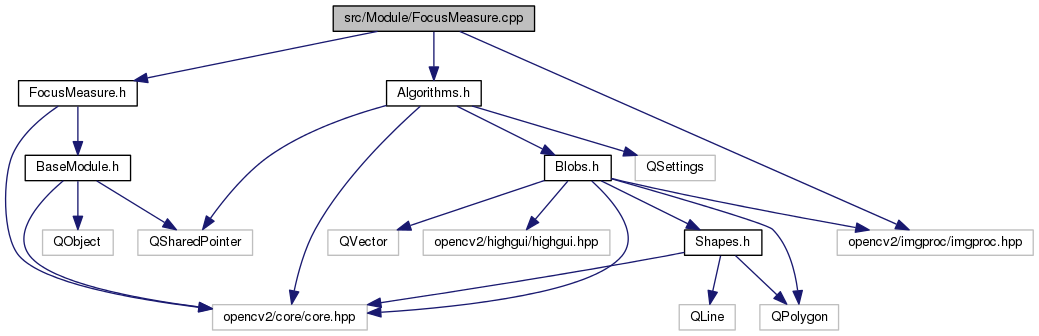
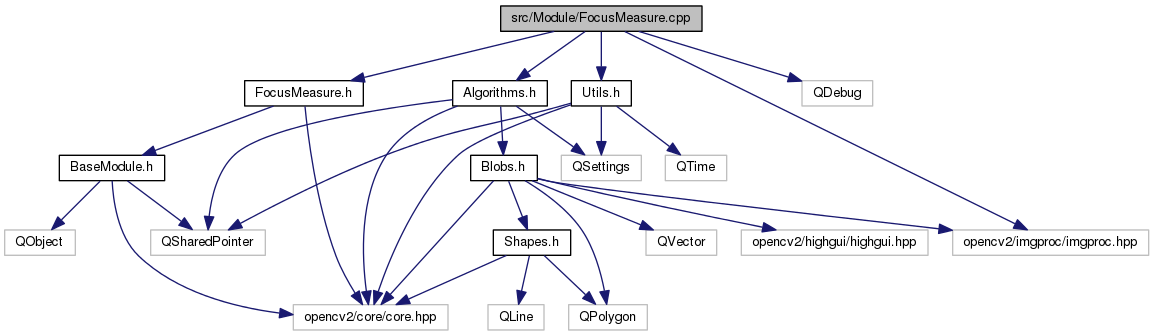
Automated documentation build for changeset 41c8662044bf3e36319ce26da71548b5b3ac6066.

diff --git a/html/dir_000005_000003.html b/html/dir_000005_000003.html
@@ -96,7 +96,7 @@ $(document).ready(function(){initNavTree('dir_7a678c4f5ebb49c12cb98071857a26cf.h
 </div>
 
 <div class="contents">
-<h3>Module &rarr; Core Relation</h3><table class="dirtab"><tr class="dirtab"><th class="dirtab">File in src/Module</th><th class="dirtab">Includes file in src/Core</th></tr><tr class="dirtab"><td class="dirtab"><a class="el" href="_base_module_8cpp.html">BaseModule.cpp</a></td><td class="dirtab"><a class="el" href="_settings_8h.html">Settings.h</a></td></tr><tr class="dirtab"><td class="dirtab"><a class="el" href="_binarization_8cpp.html">Binarization.cpp</a></td><td class="dirtab"><a class="el" href="_algorithms_8h.html">Algorithms.h</a></td></tr><tr class="dirtab"><td class="dirtab"><a class="el" href="_binarization_8cpp.html">Binarization.cpp</a></td><td class="dirtab"><a class="el" href="_image_8h.html">Image.h</a></td></tr><tr class="dirtab"><td class="dirtab"><a class="el" href="_focus_measure_8cpp.html">FocusMeasure.cpp</a></td><td class="dirtab"><a class="el" href="_algorithms_8h.html">Algorithms.h</a></td></tr><tr class="dirtab"><td class="dirtab"><a class="el" href="_form_analysis_8cpp.html">FormAnalysis.cpp</a></td><td class="dirtab"><a class="el" href="_algorithms_8h.html">Algorithms.h</a></td></tr><tr class="dirtab"><td class="dirtab"><a class="el" href="_form_analysis_8cpp.html">FormAnalysis.cpp</a></td><td class="dirtab"><a class="el" href="_elements_8h.html">Elements.h</a></td></tr><tr class="dirtab"><td class="dirtab"><a class="el" href="_form_analysis_8cpp.html">FormAnalysis.cpp</a></td><td class="dirtab"><a class="el" href="_image_8h.html">Image.h</a></td></tr><tr class="dirtab"><td class="dirtab"><a class="el" href="_form_analysis_8cpp.html">FormAnalysis.cpp</a></td><td class="dirtab"><a class="el" href="_page_parser_8h.html">PageParser.h</a></td></tr><tr class="dirtab"><td class="dirtab"><a class="el" href="_line_trace_8cpp.html">LineTrace.cpp</a></td><td class="dirtab"><a class="el" href="_algorithms_8h.html">Algorithms.h</a></td></tr><tr class="dirtab"><td class="dirtab"><a class="el" href="_line_trace_8cpp.html">LineTrace.cpp</a></td><td class="dirtab"><a class="el" href="_blobs_8h.html">Blobs.h</a></td></tr><tr class="dirtab"><td class="dirtab"><a class="el" href="_line_trace_8cpp.html">LineTrace.cpp</a></td><td class="dirtab"><a class="el" href="_image_8h.html">Image.h</a></td></tr><tr class="dirtab"><td class="dirtab"><a class="el" href="_line_trace_8h.html">LineTrace.h</a></td><td class="dirtab"><a class="el" href="_shapes_8h.html">Shapes.h</a></td></tr><tr class="dirtab"><td class="dirtab"><a class="el" href="_skew_estimation_8cpp.html">SkewEstimation.cpp</a></td><td class="dirtab"><a class="el" href="_algorithms_8h.html">Algorithms.h</a></td></tr><tr class="dirtab"><td class="dirtab"><a class="el" href="_skew_estimation_8cpp.html">SkewEstimation.cpp</a></td><td class="dirtab"><a class="el" href="_image_8h.html">Image.h</a></td></tr><tr class="dirtab"><td class="dirtab"><a class="el" href="_super_pixel_8cpp.html">SuperPixel.cpp</a></td><td class="dirtab"><a class="el" href="_drawer_8h.html">Drawer.h</a></td></tr><tr class="dirtab"><td class="dirtab"><a class="el" href="_super_pixel_8cpp.html">SuperPixel.cpp</a></td><td class="dirtab"><a class="el" href="_image_8h.html">Image.h</a></td></tr><tr class="dirtab"><td class="dirtab"><a class="el" href="_super_pixel_8cpp.html">SuperPixel.cpp</a></td><td class="dirtab"><a class="el" href="_image_processor_8h.html">ImageProcessor.h</a></td></tr><tr class="dirtab"><td class="dirtab"><a class="el" href="_super_pixel_8cpp.html">SuperPixel.cpp</a></td><td class="dirtab"><a class="el" href="_utils_8h.html">Utils.h</a></td></tr><tr class="dirtab"><td class="dirtab"><a class="el" href="_super_pixel_8h.html">SuperPixel.h</a></td><td class="dirtab"><a class="el" href="_pixel_8h.html">Pixel.h</a></td></tr><tr class="dirtab"><td class="dirtab"><a class="el" href="_super_pixel_8h.html">SuperPixel.h</a></td><td class="dirtab"><a class="el" href="_shapes_8h.html">Shapes.h</a></td></tr><tr class="dirtab"><td class="dirtab"><a class="el" href="_text_block_segmentation_8cpp.html">TextBlockSegmentation.cpp</a></td><td class="dirtab"><a class="el" href="_drawer_8h.html">Drawer.h</a></td></tr><tr class="dirtab"><td class="dirtab"><a class="el" href="_text_block_segmentation_8cpp.html">TextBlockSegmentation.cpp</a></td><td class="dirtab"><a class="el" href="_image_8h.html">Image.h</a></td></tr><tr class="dirtab"><td class="dirtab"><a class="el" href="_text_block_segmentation_8cpp.html">TextBlockSegmentation.cpp</a></td><td class="dirtab"><a class="el" href="_utils_8h.html">Utils.h</a></td></tr><tr class="dirtab"><td class="dirtab"><a class="el" href="_text_block_segmentation_8h.html">TextBlockSegmentation.h</a></td><td class="dirtab"><a class="el" href="_pixel_8h.html">Pixel.h</a></td></tr><tr class="dirtab"><td class="dirtab"><a class="el" href="_text_line_segmentation_8cpp.html">TextLineSegmentation.cpp</a></td><td class="dirtab"><a class="el" href="_drawer_8h.html">Drawer.h</a></td></tr><tr class="dirtab"><td class="dirtab"><a class="el" href="_text_line_segmentation_8cpp.html">TextLineSegmentation.cpp</a></td><td class="dirtab"><a class="el" href="_image_8h.html">Image.h</a></td></tr><tr class="dirtab"><td class="dirtab"><a class="el" href="_text_line_segmentation_8cpp.html">TextLineSegmentation.cpp</a></td><td class="dirtab"><a class="el" href="_utils_8h.html">Utils.h</a></td></tr><tr class="dirtab"><td class="dirtab"><a class="el" href="_text_line_segmentation_8h.html">TextLineSegmentation.h</a></td><td class="dirtab"><a class="el" href="_pixel_8h.html">Pixel.h</a></td></tr></table></div><!-- contents -->
+<h3>Module &rarr; Core Relation</h3><table class="dirtab"><tr class="dirtab"><th class="dirtab">File in src/Module</th><th class="dirtab">Includes file in src/Core</th></tr><tr class="dirtab"><td class="dirtab"><a class="el" href="_base_module_8cpp.html">BaseModule.cpp</a></td><td class="dirtab"><a class="el" href="_settings_8h.html">Settings.h</a></td></tr><tr class="dirtab"><td class="dirtab"><a class="el" href="_binarization_8cpp.html">Binarization.cpp</a></td><td class="dirtab"><a class="el" href="_algorithms_8h.html">Algorithms.h</a></td></tr><tr class="dirtab"><td class="dirtab"><a class="el" href="_binarization_8cpp.html">Binarization.cpp</a></td><td class="dirtab"><a class="el" href="_image_8h.html">Image.h</a></td></tr><tr class="dirtab"><td class="dirtab"><a class="el" href="_focus_measure_8cpp.html">FocusMeasure.cpp</a></td><td class="dirtab"><a class="el" href="_algorithms_8h.html">Algorithms.h</a></td></tr><tr class="dirtab"><td class="dirtab"><a class="el" href="_focus_measure_8cpp.html">FocusMeasure.cpp</a></td><td class="dirtab"><a class="el" href="_utils_8h.html">Utils.h</a></td></tr><tr class="dirtab"><td class="dirtab"><a class="el" href="_form_analysis_8cpp.html">FormAnalysis.cpp</a></td><td class="dirtab"><a class="el" href="_algorithms_8h.html">Algorithms.h</a></td></tr><tr class="dirtab"><td class="dirtab"><a class="el" href="_form_analysis_8cpp.html">FormAnalysis.cpp</a></td><td class="dirtab"><a class="el" href="_elements_8h.html">Elements.h</a></td></tr><tr class="dirtab"><td class="dirtab"><a class="el" href="_form_analysis_8cpp.html">FormAnalysis.cpp</a></td><td class="dirtab"><a class="el" href="_image_8h.html">Image.h</a></td></tr><tr class="dirtab"><td class="dirtab"><a class="el" href="_form_analysis_8cpp.html">FormAnalysis.cpp</a></td><td class="dirtab"><a class="el" href="_page_parser_8h.html">PageParser.h</a></td></tr><tr class="dirtab"><td class="dirtab"><a class="el" href="_line_trace_8cpp.html">LineTrace.cpp</a></td><td class="dirtab"><a class="el" href="_algorithms_8h.html">Algorithms.h</a></td></tr><tr class="dirtab"><td class="dirtab"><a class="el" href="_line_trace_8cpp.html">LineTrace.cpp</a></td><td class="dirtab"><a class="el" href="_blobs_8h.html">Blobs.h</a></td></tr><tr class="dirtab"><td class="dirtab"><a class="el" href="_line_trace_8cpp.html">LineTrace.cpp</a></td><td class="dirtab"><a class="el" href="_image_8h.html">Image.h</a></td></tr><tr class="dirtab"><td class="dirtab"><a class="el" href="_line_trace_8h.html">LineTrace.h</a></td><td class="dirtab"><a class="el" href="_shapes_8h.html">Shapes.h</a></td></tr><tr class="dirtab"><td class="dirtab"><a class="el" href="_skew_estimation_8cpp.html">SkewEstimation.cpp</a></td><td class="dirtab"><a class="el" href="_algorithms_8h.html">Algorithms.h</a></td></tr><tr class="dirtab"><td class="dirtab"><a class="el" href="_skew_estimation_8cpp.html">SkewEstimation.cpp</a></td><td class="dirtab"><a class="el" href="_image_8h.html">Image.h</a></td></tr><tr class="dirtab"><td class="dirtab"><a class="el" href="_super_pixel_8cpp.html">SuperPixel.cpp</a></td><td class="dirtab"><a class="el" href="_drawer_8h.html">Drawer.h</a></td></tr><tr class="dirtab"><td class="dirtab"><a class="el" href="_super_pixel_8cpp.html">SuperPixel.cpp</a></td><td class="dirtab"><a class="el" href="_image_8h.html">Image.h</a></td></tr><tr class="dirtab"><td class="dirtab"><a class="el" href="_super_pixel_8cpp.html">SuperPixel.cpp</a></td><td class="dirtab"><a class="el" href="_image_processor_8h.html">ImageProcessor.h</a></td></tr><tr class="dirtab"><td class="dirtab"><a class="el" href="_super_pixel_8cpp.html">SuperPixel.cpp</a></td><td class="dirtab"><a class="el" href="_utils_8h.html">Utils.h</a></td></tr><tr class="dirtab"><td class="dirtab"><a class="el" href="_super_pixel_8h.html">SuperPixel.h</a></td><td class="dirtab"><a class="el" href="_pixel_8h.html">Pixel.h</a></td></tr><tr class="dirtab"><td class="dirtab"><a class="el" href="_super_pixel_8h.html">SuperPixel.h</a></td><td class="dirtab"><a class="el" href="_shapes_8h.html">Shapes.h</a></td></tr><tr class="dirtab"><td class="dirtab"><a class="el" href="_text_block_segmentation_8cpp.html">TextBlockSegmentation.cpp</a></td><td class="dirtab"><a class="el" href="_drawer_8h.html">Drawer.h</a></td></tr><tr class="dirtab"><td class="dirtab"><a class="el" href="_text_block_segmentation_8cpp.html">TextBlockSegmentation.cpp</a></td><td class="dirtab"><a class="el" href="_image_8h.html">Image.h</a></td></tr><tr class="dirtab"><td class="dirtab"><a class="el" href="_text_block_segmentation_8cpp.html">TextBlockSegmentation.cpp</a></td><td class="dirtab"><a class="el" href="_utils_8h.html">Utils.h</a></td></tr><tr class="dirtab"><td class="dirtab"><a class="el" href="_text_block_segmentation_8h.html">TextBlockSegmentation.h</a></td><td class="dirtab"><a class="el" href="_pixel_8h.html">Pixel.h</a></td></tr><tr class="dirtab"><td class="dirtab"><a class="el" href="_text_line_segmentation_8cpp.html">TextLineSegmentation.cpp</a></td><td class="dirtab"><a class="el" href="_drawer_8h.html">Drawer.h</a></td></tr><tr class="dirtab"><td class="dirtab"><a class="el" href="_text_line_segmentation_8cpp.html">TextLineSegmentation.cpp</a></td><td class="dirtab"><a class="el" href="_image_8h.html">Image.h</a></td></tr><tr class="dirtab"><td class="dirtab"><a class="el" href="_text_line_segmentation_8cpp.html">TextLineSegmentation.cpp</a></td><td class="dirtab"><a class="el" href="_utils_8h.html">Utils.h</a></td></tr><tr class="dirtab"><td class="dirtab"><a class="el" href="_text_line_segmentation_8h.html">TextLineSegmentation.h</a></td><td class="dirtab"><a class="el" href="_pixel_8h.html">Pixel.h</a></td></tr></table></div><!-- contents -->
 </div><!-- doc-content -->
 <!-- start footer part -->
 <div id="nav-path" class="navpath"><!-- id is needed for treeview function! -->

diff --git a/html/_utils_8h.html b/html/_utils_8h.html
@@ -126,7 +126,7 @@ This graph shows which files directly or indirectly include this file:</div>
 <div class="dyncontent">
 <div class="center"><img src="_utils_8h__dep__incl.png" border="0" usemap="#src_2_core_2_utils_8hdep" alt=""/></div>
 <map name="src_2_core_2_utils_8hdep" id="src_2_core_2_utils_8hdep">
-<area shape="rect" id="node2" href="_drawer_8cpp.html" title="src/Core/Drawer.cpp" alt="" coords="5,80,147,107"/><area shape="rect" id="node3" href="_image_8cpp.html" title="src/Core/Image.cpp" alt="" coords="171,80,308,107"/><area shape="rect" id="node4" href="_page_parser_8cpp.html" title="src/Core/PageParser.cpp" alt="" coords="333,80,501,107"/><area shape="rect" id="node5" href="_pixel_8cpp.html" title="src/Core/Pixel.cpp" alt="" coords="527,80,656,107"/><area shape="rect" id="node6" href="_shapes_8cpp.html" title="src/Core/Shapes.cpp" alt="" coords="682,80,827,107"/><area shape="rect" id="node7" href="_utils_8cpp.html" title="src/Core/Utils.cpp" alt="" coords="852,80,980,107"/><area shape="rect" id="node8" href="_debug_flo_8cpp.html" title="src/DebugFlo.cpp" alt="" coords="1004,80,1129,107"/><area shape="rect" id="node9" href="_debug_markus_8cpp.html" title="src/DebugMarkus.cpp" alt="" coords="1154,80,1304,107"/><area shape="rect" id="node10" href="main_8cpp.html" title="src/main.cpp" alt="" coords="1329,80,1425,107"/><area shape="rect" id="node11" href="_super_pixel_8cpp.html" title="src/Module/SuperPixel.cpp" alt="" coords="1451,80,1629,107"/><area shape="rect" id="node12" href="_text_block_segmentation_8cpp.html" title="src/Module/TextBlockSegmentation.cpp" alt="" coords="1654,80,1908,107"/><area shape="rect" id="node13" href="_text_line_segmentation_8cpp.html" title="src/Module/TextLineSegmentation.cpp" alt="" coords="1933,80,2179,107"/></map>
+<area shape="rect" id="node2" href="_drawer_8cpp.html" title="src/Core/Drawer.cpp" alt="" coords="5,80,147,107"/><area shape="rect" id="node3" href="_image_8cpp.html" title="src/Core/Image.cpp" alt="" coords="171,80,308,107"/><area shape="rect" id="node4" href="_page_parser_8cpp.html" title="src/Core/PageParser.cpp" alt="" coords="333,80,501,107"/><area shape="rect" id="node5" href="_pixel_8cpp.html" title="src/Core/Pixel.cpp" alt="" coords="527,80,656,107"/><area shape="rect" id="node6" href="_shapes_8cpp.html" title="src/Core/Shapes.cpp" alt="" coords="682,80,827,107"/><area shape="rect" id="node7" href="_utils_8cpp.html" title="src/Core/Utils.cpp" alt="" coords="852,80,980,107"/><area shape="rect" id="node8" href="_debug_flo_8cpp.html" title="src/DebugFlo.cpp" alt="" coords="1004,80,1129,107"/><area shape="rect" id="node9" href="_debug_markus_8cpp.html" title="src/DebugMarkus.cpp" alt="" coords="1154,80,1304,107"/><area shape="rect" id="node10" href="main_8cpp.html" title="src/main.cpp" alt="" coords="1329,80,1425,107"/><area shape="rect" id="node11" href="_focus_measure_8cpp.html" title="src/Module/FocusMeasure.cpp" alt="" coords="1450,80,1651,107"/><area shape="rect" id="node12" href="_super_pixel_8cpp.html" title="src/Module/SuperPixel.cpp" alt="" coords="1676,80,1855,107"/><area shape="rect" id="node13" href="_text_block_segmentation_8cpp.html" title="src/Module/TextBlockSegmentation.cpp" alt="" coords="1879,80,2133,107"/><area shape="rect" id="node14" href="_text_line_segmentation_8cpp.html" title="src/Module/TextLineSegmentation.cpp" alt="" coords="2159,80,2404,107"/></map>
 </div>
 </div>
 <p><a href="_utils_8h_source.html">Go to the source code of this file.</a></p>

diff --git a/html/dir_68267d1309a1af8e8297ef4c3efbcdba.html b/html/dir_68267d1309a1af8e8297ef4c3efbcdba.html
@@ -105,7 +105,7 @@ Directory dependency graph for src:</div>
 <div class="dyncontent">
 <div class="center"><img src="dir_68267d1309a1af8e8297ef4c3efbcdba_dep.png" border="0" usemap="#dir__68267d1309a1af8e8297ef4c3efbcdba__dep" alt="src"/></div>
 <map name="dir__68267d1309a1af8e8297ef4c3efbcdba__dep" id="dir__68267d1309a1af8e8297ef4c3efbcdba__dep">
-<area shape="rect" id="node5" href="dir_7a678c4f5ebb49c12cb98071857a26cf.html" title="Module" alt="" coords="123,123,195,171"/><area shape="rect" id="edge1-headlabel" href="dir_000000_000005.html" title="9" alt="" coords="163,97,171,112"/><area shape="rect" id="node2" href="dir_45bd1f1e17bf86d535a7d8d624f251d4.html" title="3rdparty" alt="" coords="27,219,99,267"/><area shape="rect" id="node3" href="dir_a2f0e5642e47e7ed59fe0f0829eafb5f.html" title="Core" alt="" coords="123,219,195,267"/><area shape="rect" id="node4" href="dir_295b4433276adffd561d479e7af2da71.html" title="Dummy" alt="" coords="27,27,99,75"/><area shape="rect" id="edge3-headlabel" href="dir_000005_000001.html" title="2" alt="" coords="101,205,109,219"/><area shape="rect" id="edge2-headlabel" href="dir_000005_000003.html" title="28" alt="" coords="160,193,174,208"/><area shape="rect" id="clust1" href="dir_68267d1309a1af8e8297ef4c3efbcdba.html" alt="" coords="16,16,205,277"/></map>
+<area shape="rect" id="node5" href="dir_7a678c4f5ebb49c12cb98071857a26cf.html" title="Module" alt="" coords="123,123,195,171"/><area shape="rect" id="edge1-headlabel" href="dir_000000_000005.html" title="9" alt="" coords="163,97,171,112"/><area shape="rect" id="node2" href="dir_45bd1f1e17bf86d535a7d8d624f251d4.html" title="3rdparty" alt="" coords="27,219,99,267"/><area shape="rect" id="node3" href="dir_a2f0e5642e47e7ed59fe0f0829eafb5f.html" title="Core" alt="" coords="123,219,195,267"/><area shape="rect" id="node4" href="dir_295b4433276adffd561d479e7af2da71.html" title="Dummy" alt="" coords="27,27,99,75"/><area shape="rect" id="edge3-headlabel" href="dir_000005_000001.html" title="2" alt="" coords="101,205,109,219"/><area shape="rect" id="edge2-headlabel" href="dir_000005_000003.html" title="29" alt="" coords="160,193,174,208"/><area shape="rect" id="clust1" href="dir_68267d1309a1af8e8297ef4c3efbcdba.html" alt="" coords="16,16,205,277"/></map>
 </div>
 <table class="memberdecls">
 <tr class="heading"><td colspan="2"><h2 class="groupheader"><a name="subdirs"></a>

diff --git a/html/_focus_measure_8cpp.html b/html/_focus_measure_8cpp.html
@@ -110,13 +110,15 @@ $(document).ready(function(){initNavTree('_focus_measure_8cpp.html','');});
 <div class="contents">
 <div class="textblock"><code>#include &quot;<a class="el" href="_focus_measure_8h_source.html">FocusMeasure.h</a>&quot;</code><br/>
 <code>#include &quot;<a class="el" href="_algorithms_8h_source.html">Algorithms.h</a>&quot;</code><br/>
+<code>#include &quot;<a class="el" href="_utils_8h_source.html">Utils.h</a>&quot;</code><br/>
 <code>#include &quot;opencv2/imgproc/imgproc.hpp&quot;</code><br/>
+<code>#include &lt;QDebug&gt;</code><br/>
 </div><div class="textblock"><div class="dynheader">
 Include dependency graph for FocusMeasure.cpp:</div>
 <div class="dyncontent">
 <div class="center"><img src="_focus_measure_8cpp__incl.png" border="0" usemap="#src_2_module_2_focus_measure_8cpp" alt=""/></div>
 <map name="src_2_module_2_focus_measure_8cpp" id="src_2_module_2_focus_measure_8cpp">
-<area shape="rect" id="node2" href="_focus_measure_8h.html" title="FocusMeasure.h" alt="" coords="19,80,137,107"/><area shape="rect" id="node7" href="_algorithms_8h.html" title="Algorithms.h" alt="" coords="387,80,481,107"/><area shape="rect" id="node3" href="_base_module_8h.html" title="BaseModule.h" alt="" coords="25,155,130,181"/><area shape="rect" id="node9" href="_blobs_8h.html" title="Blobs.h" alt="" coords="545,155,611,181"/><area shape="rect" id="node10" href="_shapes_8h.html" title="Shapes.h" alt="" coords="685,229,761,256"/></map>
+<area shape="rect" id="node2" href="_focus_measure_8h.html" title="FocusMeasure.h" alt="" coords="245,80,363,107"/><area shape="rect" id="node7" href="_algorithms_8h.html" title="Algorithms.h" alt="" coords="453,80,547,107"/><area shape="rect" id="node16" href="_utils_8h.html" title="Utils.h" alt="" coords="571,80,631,107"/><area shape="rect" id="node3" href="_base_module_8h.html" title="BaseModule.h" alt="" coords="59,155,164,181"/><area shape="rect" id="node9" href="_blobs_8h.html" title="Blobs.h" alt="" coords="471,155,537,181"/><area shape="rect" id="node10" href="_shapes_8h.html" title="Shapes.h" alt="" coords="493,229,569,256"/></map>
 </div>
 </div><table class="memberdecls">
 <tr class="heading"><td colspan="2"><h2 class="groupheader"><a name="namespaces"></a>

diff --git a/html/dir_7a678c4f5ebb49c12cb98071857a26cf.html b/html/dir_7a678c4f5ebb49c12cb98071857a26cf.html
@@ -105,7 +105,7 @@ Directory dependency graph for Module:</div>
 <div class="dyncontent">
 <div class="center"><img src="dir_7a678c4f5ebb49c12cb98071857a26cf_dep.png" border="0" usemap="#dir__7a678c4f5ebb49c12cb98071857a26cf__dep" alt="src/Module"/></div>
 <map name="dir__7a678c4f5ebb49c12cb98071857a26cf__dep" id="dir__7a678c4f5ebb49c12cb98071857a26cf__dep">
-<area shape="rect" id="node1" href="dir_7a678c4f5ebb49c12cb98071857a26cf.html" title="Module" alt="" coords="53,52,125,100"/><area shape="rect" id="node2" href="dir_a2f0e5642e47e7ed59fe0f0829eafb5f.html" title="Core" alt="" coords="5,148,77,196"/><area shape="rect" id="edge1-headlabel" href="dir_000005_000003.html" title="28" alt="" coords="62,128,76,143"/><area shape="rect" id="node3" href="dir_45bd1f1e17bf86d535a7d8d624f251d4.html" title="3rdparty" alt="" coords="101,148,173,196"/><area shape="rect" id="edge2-headlabel" href="dir_000005_000001.html" title="2" alt="" coords="121,121,129,135"/><area shape="rect" id="clust1" href="dir_68267d1309a1af8e8297ef4c3efbcdba.html" title="src" alt="" coords="43,16,136,111"/></map>
+<area shape="rect" id="node1" href="dir_7a678c4f5ebb49c12cb98071857a26cf.html" title="Module" alt="" coords="53,52,125,100"/><area shape="rect" id="node2" href="dir_a2f0e5642e47e7ed59fe0f0829eafb5f.html" title="Core" alt="" coords="5,148,77,196"/><area shape="rect" id="edge1-headlabel" href="dir_000005_000003.html" title="29" alt="" coords="62,128,76,143"/><area shape="rect" id="node3" href="dir_45bd1f1e17bf86d535a7d8d624f251d4.html" title="3rdparty" alt="" coords="101,148,173,196"/><area shape="rect" id="edge2-headlabel" href="dir_000005_000001.html" title="2" alt="" coords="121,121,129,135"/><area shape="rect" id="clust1" href="dir_68267d1309a1af8e8297ef4c3efbcdba.html" title="src" alt="" coords="43,16,136,111"/></map>
 </div>
 <table class="memberdecls">
 <tr class="heading"><td colspan="2"><h2 class="groupheader"><a name="files"></a>
